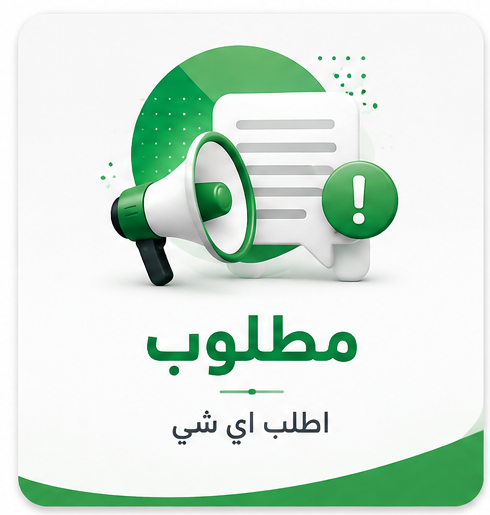
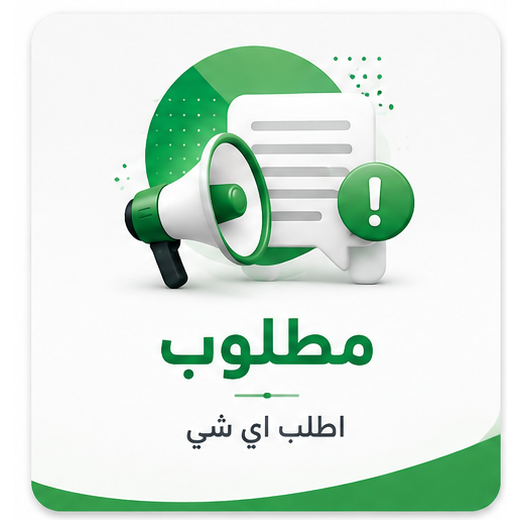
Remove disliked brocade pattern (revert to plain background); fix section cards to uniform square size via consistent canvas + forced aspect-square container

diff --git a/app/page.tsx b/app/page.tsx
@@ -112,14 +112,13 @@ export default function Home() {
         {sections.map((s) => (
           <button
             key={s.key}
-            className="relative rounded-2xl overflow-hidden card-shadow hover:-translate-y-1 transition"
+            className="relative aspect-square rounded-2xl overflow-hidden card-shadow hover:-translate-y-1 transition"
           >
             <Image
               src={`/images/sections/${s.key}.png`}
               alt={s.name}
-              width={510}
-              height={525}
-              className="w-full h-auto"
+              fill
+              className="object-cover"
             />
           </button>
         ))}

diff --git a/app/globals.css b/app/globals.css
@@ -8,9 +8,6 @@
 
 body {
   background-color: #f5f1eb;
-  background-image: url("/images/pattern-brocade.svg");
-  background-repeat: repeat;
-  background-size: 160px 160px;
   color: #12372a;
 }
 
